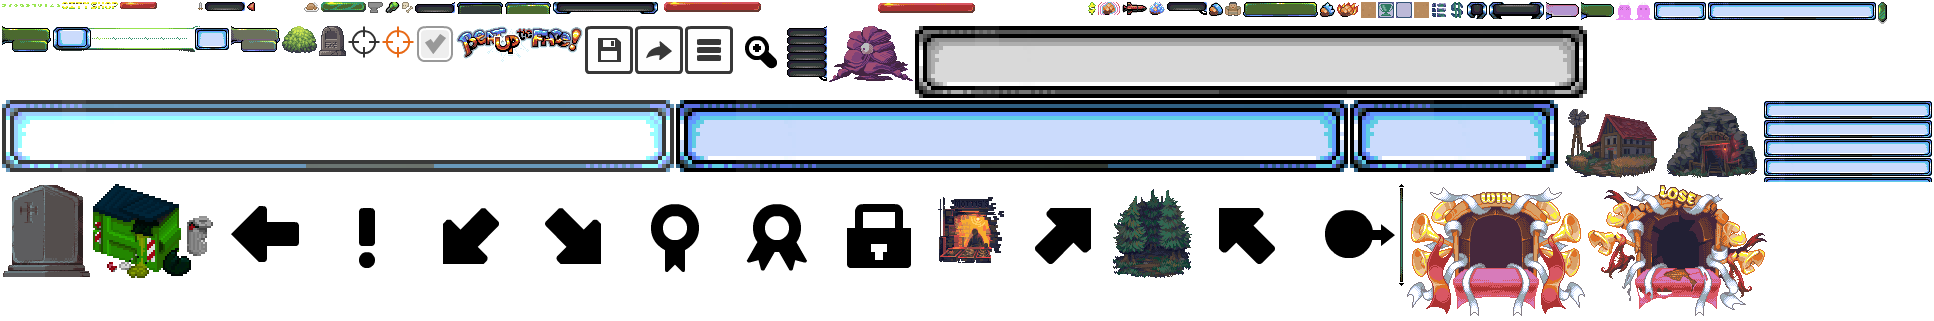
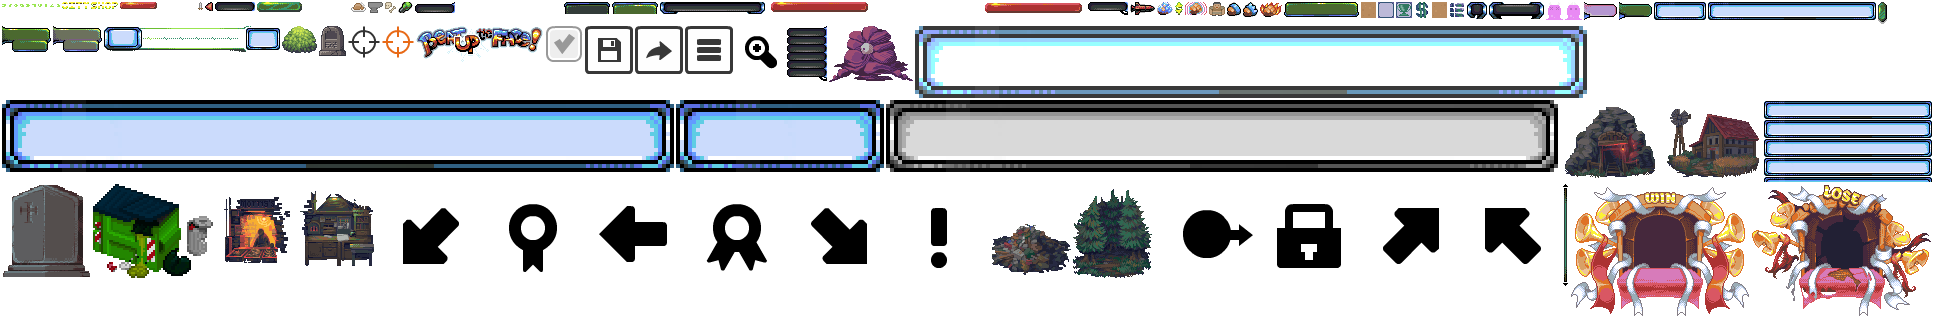
use new art for dump and workshop, update building buttons across the top

diff --git a/Classes/Harvestable.cpp b/Classes/Harvestable.cpp
@@ -102,7 +102,7 @@ bool Harvestable::init()
     this->setPosition(harvestable_pos->getPosition());
     this->setName("harvestable");
 
-    this->initial_scale = 4;
+    this->initial_scale = 0.9f;
     this->setScale(this->initial_scale);
 
     this->_current_output_ing_type = this->building->punched_sub_type;
@@ -541,16 +541,6 @@ void TreeHarvestable::shatter()
 
 };
 
-bool DumpsterHarvestable::init()
-{
-    bool val = Harvestable::init();
-
-    this->initial_scale = 0.70f;
-    this->setScale(this->initial_scale);
-
-    return val;
-}
-
 void DumpsterHarvestable::init_clicks()
 {
 
@@ -575,7 +565,7 @@ void DumpsterHarvestable::init_clicks()
 
 std::string DumpsterHarvestable::get_sprite_path()
 {
-    return "dump_darker.png";
+    return "dump.png";
 }
 
 void DumpsterHarvestable::on_harvest()
@@ -740,7 +730,7 @@ CraftingHarvestable* CraftingHarvestable::create(spRecipe recipe)
 
 std::string CraftingHarvestable::get_sprite_path()
 {
-    return "anvil.png";
+    return "workshop.png";
 };
 
 float CraftingHarvestable::get_click_ratio() const

diff --git a/Classes/HarvestScene.cpp b/Classes/HarvestScene.cpp
@@ -433,16 +433,16 @@ void BaseScene::create_building_choicelist()
             img_path = "forest.png";
         }
         else if (building->name == "The Dump") {
-            img_path = "dump_darker.png";
+            img_path = "dump.png";
         }
         else if (building->name == "The Workshop") {
-            img_path = "anvil.png";
+            img_path = "workshop.png";
         }
         else if (building->name == "The Arena") {
             img_path = "sword.png";
         }
         else if (building->name == "The Graveyard") {
-            img_path = "grave.png";
+            img_path = "gravestone.png";
         }
         else if (building->name == "The Underscape") {
             img_path = "pink_monster.png";

diff --git a/Classes/Harvestable.h b/Classes/Harvestable.h
@@ -140,7 +140,6 @@ class DumpsterHarvestable : public Harvestable
 
     public:
         CREATE_FUNC(DumpsterHarvestable);
-        bool init();
         virtual void init_clicks() override;
 
         std::string get_sprite_path();
